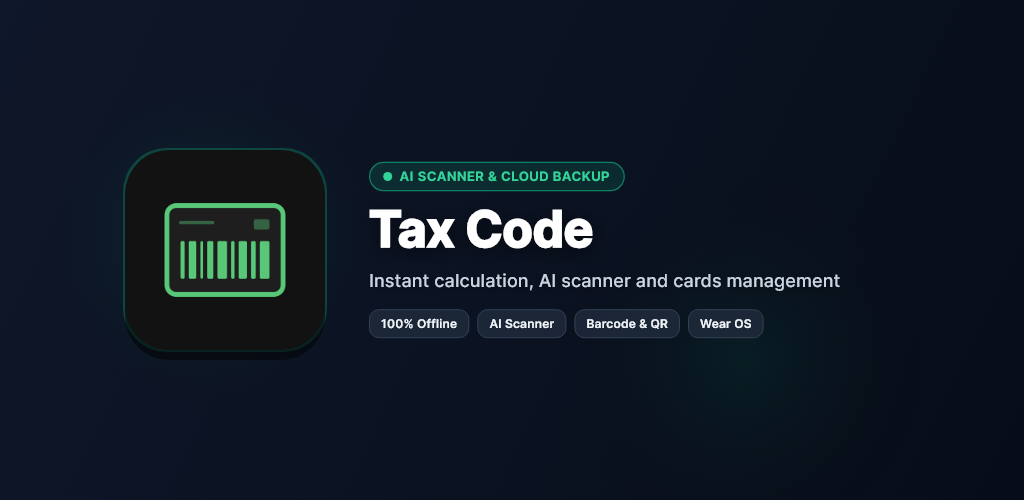
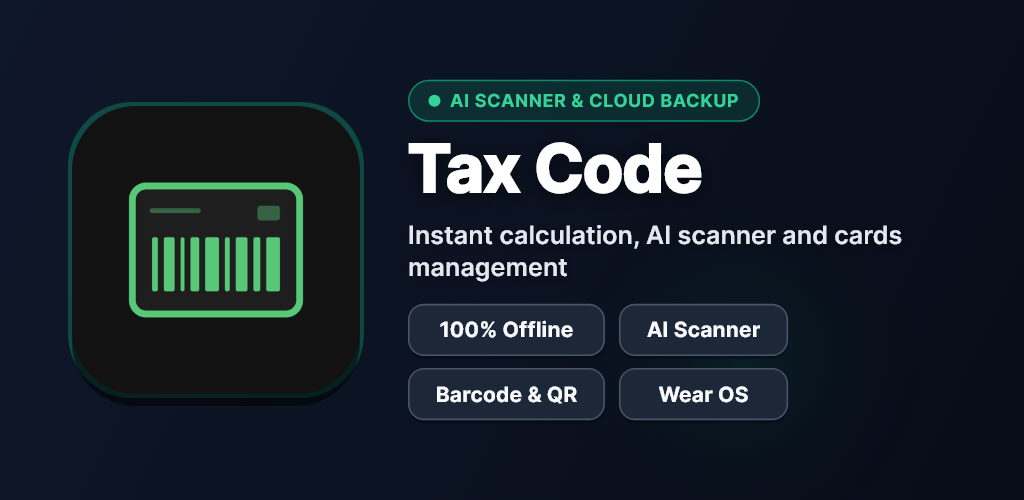
feat(store): improve Play Store feature graphic legibility with 2x2 chip grid

diff --git a/mobile/test/screenshots/generate_feature_graphic_test.dart b/mobile/test/screenshots/generate_feature_graphic_test.dart
@@ -79,48 +79,48 @@ class FeatureGraphicCanvas extends StatelessWidget {
               ),
             ),
           ),
-          // Centered Safe Zone container (horizontal margin ~125px ensures no crop in 16:9)
+          // Centered Safe Zone container (horizontal margin 72px ensures no crop even in 16:9)
           Center(
             child: Padding(
-              padding: const EdgeInsets.symmetric(horizontal: 125),
+              padding: const EdgeInsets.symmetric(horizontal: 72),
               child: Row(
                 mainAxisAlignment: MainAxisAlignment.center,
                 children: [
                   // Official Brand App Icon
                   Container(
-                    width: 200,
-                    height: 200,
+                    width: 288,
+                    height: 288,
                     decoration: BoxDecoration(
-                      borderRadius: BorderRadius.circular(44),
+                      borderRadius: BorderRadius.circular(64),
                       boxShadow: [
                         BoxShadow(
                           color: const Color(
                             0xFF10B981,
-                          ).withValues(alpha: 0.28),
-                          blurRadius: 40,
-                          spreadRadius: 2,
+                          ).withValues(alpha: 0.32),
+                          blurRadius: 48,
+                          spreadRadius: 4,
                         ),
                         BoxShadow(
-                          color: Colors.black.withValues(alpha: 0.5),
-                          blurRadius: 24,
-                          offset: const Offset(0, 10),
+                          color: Colors.black.withValues(alpha: 0.55),
+                          blurRadius: 28,
+                          offset: const Offset(0, 12),
                         ),
                       ],
                     ),
                     child: ClipRRect(
-                      borderRadius: BorderRadius.circular(44),
+                      borderRadius: BorderRadius.circular(64),
                       child: iconImage != null
                           ? RawImage(
                               image: iconImage,
-                              width: 200,
-                              height: 200,
+                              width: 288,
+                              height: 288,
                               fit: BoxFit.cover,
                             )
                           : const SizedBox.shrink(),
                     ),
                   ),
 
-                  const SizedBox(width: 44),
+                  const SizedBox(width: 48),
 
                   // Information (Right)
                   Expanded(
@@ -131,27 +131,27 @@ class FeatureGraphicCanvas extends StatelessWidget {
                         // Pill Badge (Active indicator + practical value proposition)
                         Container(
                           padding: const EdgeInsets.symmetric(
-                            horizontal: 14,
-                            vertical: 6,
+                            horizontal: 20,
+                            vertical: 9,
                           ),
                           decoration: BoxDecoration(
                             color: const Color(
                               0xFF10B981,
-                            ).withValues(alpha: 0.15),
-                            borderRadius: BorderRadius.circular(20),
+                            ).withValues(alpha: 0.16),
+                            borderRadius: BorderRadius.circular(28),
                             border: Border.all(
                               color: const Color(
                                 0xFF10B981,
-                              ).withValues(alpha: 0.6),
-                              width: 1.2,
+                              ).withValues(alpha: 0.65),
+                              width: 1.5,
                             ),
                           ),
                           child: Row(
                             mainAxisSize: MainAxisSize.min,
                             children: [
                               Container(
-                                width: 7,
-                                height: 7,
+                                width: 10,
+                                height: 10,
                                 decoration: const BoxDecoration(
                                   color: Color(0xFF34D399),
                                   shape: BoxShape.circle,
@@ -164,33 +164,33 @@ class FeatureGraphicCanvas extends StatelessWidget {
                                   ],
                                 ),
                               ),
-                              const SizedBox(width: 8),
+                              const SizedBox(width: 10),
                               Text(
                                 badgeText,
                                 style: const TextStyle(
                                   fontFamily: 'Inter',
-                                  fontSize: 12.5,
+                                  fontSize: 17.5,
                                   fontWeight: FontWeight.w800,
                                   color: Color(0xFF34D399),
-                                  letterSpacing: 0.8,
+                                  letterSpacing: 0.9,
                                 ),
                               ),
                             ],
                           ),
                         ),
 
-                        const SizedBox(height: 12),
+                        const SizedBox(height: 14),
 
                         // Title
                         Text(
                           titleText,
                           style: const TextStyle(
                             fontFamily: 'Inter',
-                            fontSize: 50,
+                            fontSize: 66,
                             fontWeight: FontWeight.w900,
                             color: Colors.white,
-                            letterSpacing: -0.6,
-                            height: 1.1,
+                            letterSpacing: -1.0,
+                            height: 1.06,
                             shadows: [
                               Shadow(
                                 color: Color(0x99000000),
@@ -201,7 +201,7 @@ class FeatureGraphicCanvas extends StatelessWidget {
                           ),
                         ),
 
-                        const SizedBox(height: 10),
+                        const SizedBox(height: 12),
 
                         // Subtitle
                         Text(
@@ -209,10 +209,10 @@ class FeatureGraphicCanvas extends StatelessWidget {
                           maxLines: 2,
                           style: const TextStyle(
                             fontFamily: 'Inter',
-                            fontSize: 18,
-                            fontWeight: FontWeight.w500,
-                            color: Color(0xFFCBD5E1),
-                            height: 1.3,
+                            fontSize: 25,
+                            fontWeight: FontWeight.w600,
+                            color: Color(0xFFE2E8F0),
+                            height: 1.28,
                             letterSpacing: 0.1,
                             shadows: [
                               Shadow(
@@ -224,39 +224,33 @@ class FeatureGraphicCanvas extends StatelessWidget {
                           ),
                         ),
 
-                        const SizedBox(height: 18),
+                        const SizedBox(height: 22),
 
-                        // Feature Chips
-                        Wrap(
-                          spacing: 8,
-                          runSpacing: 8,
+                        // Feature Chips (2x2 Grid with aligned columns)
+                        Row(
+                          mainAxisSize: MainAxisSize.min,
                           children: [
-                            for (final chip in chips)
-                              Container(
-                                padding: const EdgeInsets.symmetric(
-                                  horizontal: 11,
-                                  vertical: 6,
-                                ),
-                                decoration: BoxDecoration(
-                                  color: const Color(
-                                    0xFF1E293B,
-                                  ).withValues(alpha: 0.85),
-                                  borderRadius: BorderRadius.circular(10),
-                                  border: Border.all(
-                                    color: const Color(0xFF334155),
-                                  ),
-                                ),
-                                child: Text(
-                                  chip,
-                                  style: const TextStyle(
-                                    fontFamily: 'Inter',
-                                    fontSize: 12,
-                                    fontWeight: FontWeight.w600,
-                                    color: Color(0xFFF1F5F9),
-                                    letterSpacing: 0.2,
-                                  ),
-                                ),
+                            IntrinsicWidth(
+                              child: Column(
+                                crossAxisAlignment: CrossAxisAlignment.stretch,
+                                children: [
+                                  _FeatureChip(label: chips[0]),
+                                  const SizedBox(height: 12),
+                                  _FeatureChip(label: chips[2]),
+                                ],
                               ),
+                            ),
+                            const SizedBox(width: 14),
+                            IntrinsicWidth(
+                              child: Column(
+                                crossAxisAlignment: CrossAxisAlignment.stretch,
+                                children: [
+                                  _FeatureChip(label: chips[1]),
+                                  const SizedBox(height: 12),
+                                  _FeatureChip(label: chips[3]),
+                                ],
+                              ),
+                            ),
                           ],
                         ),
                       ],
@@ -267,6 +261,43 @@ class FeatureGraphicCanvas extends StatelessWidget {
             ),
           ),
         ],
+      ),
+    );
+  }
+}
+
+class _FeatureChip extends StatelessWidget {
+  const _FeatureChip({required this.label});
+
+  final String label;
+
+  @override
+  Widget build(BuildContext context) {
+    return Container(
+      padding: const EdgeInsets.symmetric(horizontal: 26, vertical: 12),
+      alignment: Alignment.center,
+      decoration: BoxDecoration(
+        color: const Color(0xFF1E293B).withValues(alpha: 0.92),
+        borderRadius: BorderRadius.circular(16),
+        border: Border.all(color: const Color(0xFF475569), width: 1.6),
+        boxShadow: [
+          BoxShadow(
+            color: Colors.black.withValues(alpha: 0.28),
+            blurRadius: 8,
+            offset: const Offset(0, 3),
+          ),
+        ],
+      ),
+      child: Text(
+        label,
+        textAlign: TextAlign.center,
+        style: const TextStyle(
+          fontFamily: 'Inter',
+          fontSize: 21,
+          fontWeight: FontWeight.w700,
+          color: Color(0xFFF8FAFC),
+          letterSpacing: 0.2,
+        ),
       ),
     );
   }
